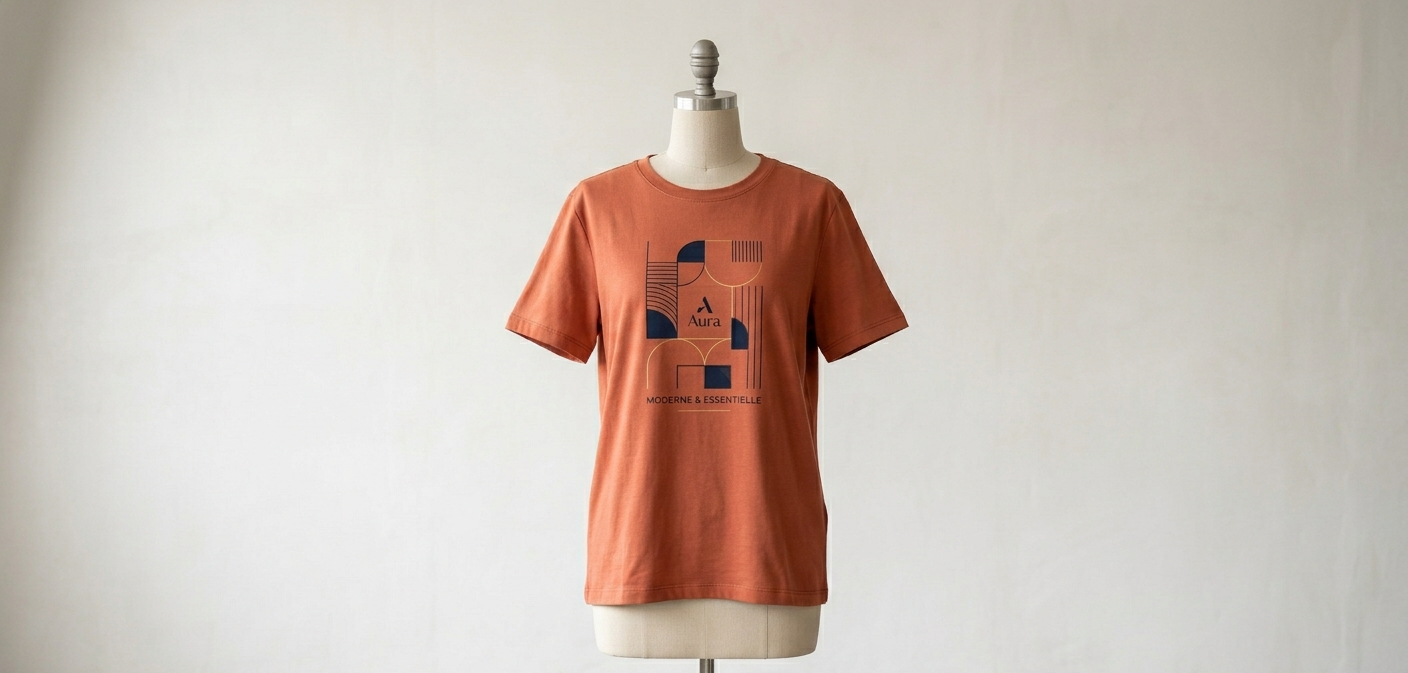
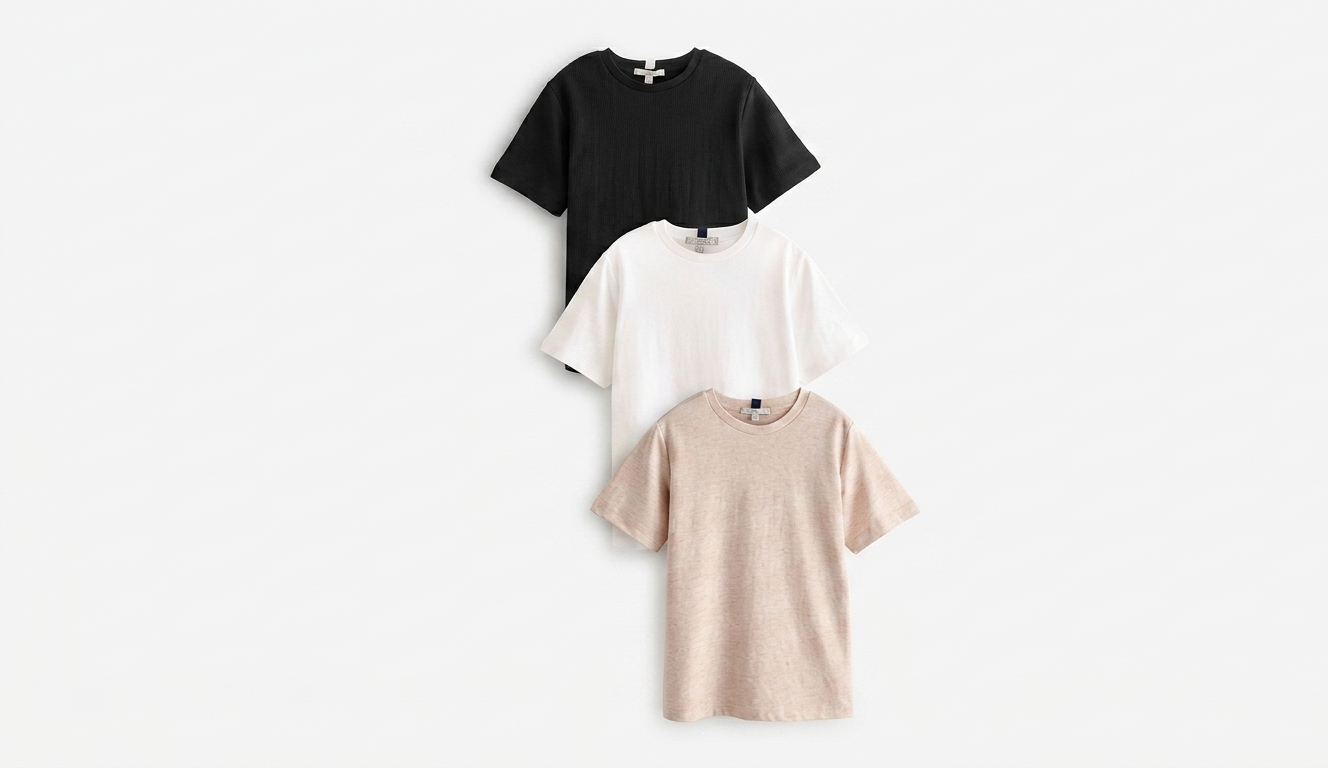
update

diff --git a/index.html b/index.html
@@ -1273,7 +1273,7 @@
                     <div class="hero-product-glow"></div>
                     <div class="hero-product-img">
                         <!-- Image placeholder : à remplacer par votre image principale -->
-                        <img src="images/hero-product.png" alt="Robe Lulu Shop">
+                        <img src="images/robe.png" alt="Robe Lulu Shop">
                     </div>
                     <div style="text-align:center;margin-top:14px;position:relative;z-index:1;">
                         <p style="font-family:'Playfair Display',serif;font-weight:600;color:var(--text-dark);">Robe Élégance</p>
@@ -1659,7 +1659,7 @@
                 <div class="footer-col">
                     <h4>Suivez-nous</h4>
                     <div class="footer-social">
-                        <a href="#" aria-label="TikTok"><i class="fab fa-tiktok"></i></a>
+                        <a href="https://www.tiktok.com/@tatalulu229?_r=1&_t=ZS-96okuMST9iT" aria-label="TikTok"><i class="fab fa-tiktok"></i></a>
                         <a href="https://wa.me/[phone redacted]" aria-label="WhatsApp"><i class="fab fa-whatsapp"></i></a>
                     </div>
                 </div>